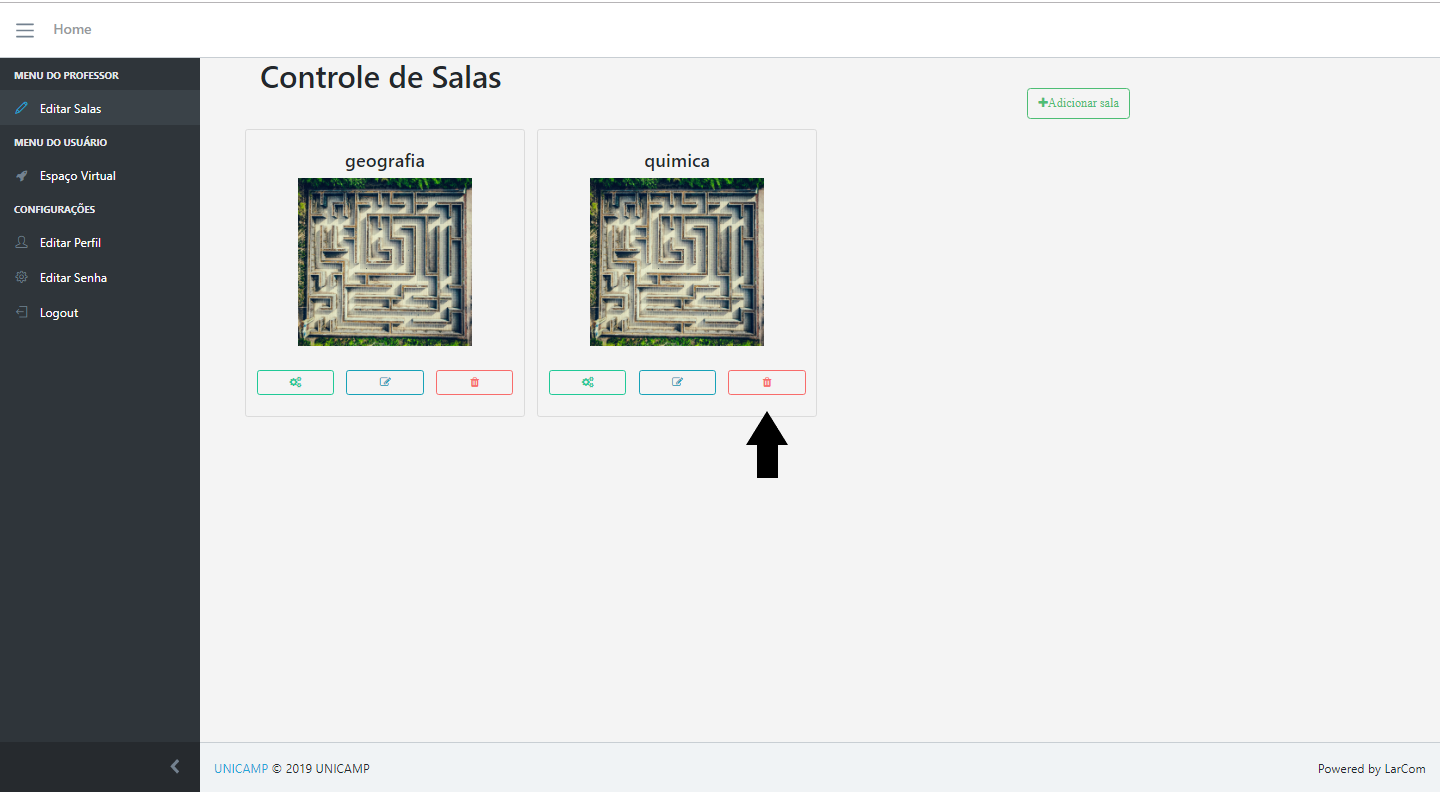
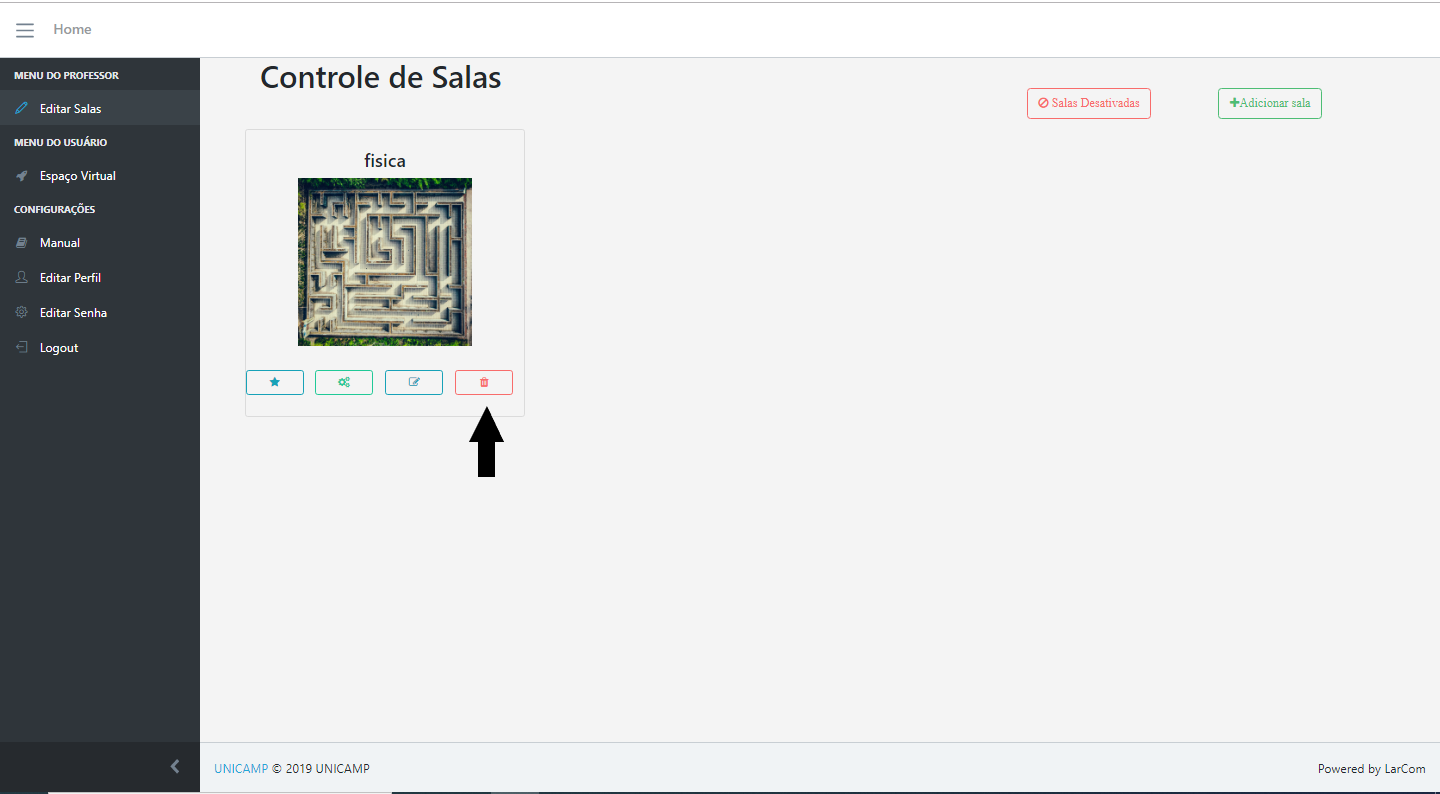
#core perguntas no gráfico

diff --git a/resources/views/grafico.blade.php b/resources/views/grafico.blade.php
@@ -12,72 +12,97 @@
 </div>
 -->
 <div class="container-fluid">
-    <form>
-        <label for="type">Selecione o tipo do gráfico</label>
-    <select id="type">
-        <option value="line">Linhas</option>    
-        <option value="bar">Barras</option>    
-        <option value="radar">Radar</option>    
-        <option value="pie">Pizza</option>    
-        <option value="doughnut">Rosca</option>    
-        <option value="polarArea">radar+pizza</option>    
-        <option value="bubble">Bolhas</option>    
-        <option value="scatter">Disperção</option>  
-        <option value="mixed">Mixed</option>    
-    </select>
-    
-    </form>
     <div class="animated fadeIn">
-      <div class="card-columns cols-2">
-        <div class="card">
-          <div class="card-header">
-            Gráfico Dinâmico
-            <div class="card-actions">
-              <a href="http://www.chartjs.org">
-                <small class="text-muted">docs</small>
-              </a>
+        <div class="card-columns cols-2">
+            <div class="card">
+                <div class="card-header">
+                    Gráfico Dinâmico
+                    <div class="card-actions">
+                        <a href="http://www.chartjs.org">
+                            <small class="text-muted">docs</small>
+                        </a>
+                    </div>
+                </div>
+                <div class="card-body">
+                    <div class="chart-wrapper">
+                        <canvas id="grafico"></canvas>
+                    </div>
+                </div>
             </div>
-          </div>
-          <div class="card-body">
-            <div class="chart-wrapper">
-              <canvas id="canvas-1"></canvas>
-            </div>
-          </div>
         </div>
-      </div>
     </div>
-  </div>
+</div>
 
 
 
 @endsection
 
 @section('myscript')
-	<script>
-        var ctx1 = document.getElementById('canvas-1').getContext('2d');
-        var canvas1 = new Chart(ctx1, {
-          type: 'line',
-          data: {
-            labels: ['January', 'February', 'March', 'April', 'May', 'June', 'July'], //x
+<script>
+    var teste = <?php echo $salas; ?>;
+    console.log(teste);
+    console.log(teste[0]);
+    console.log(teste[0].name);
+    
+    var perguntas = <?php echo $perguntas; ?>;
+    var perguntasNome=[];
+    var perguntasId=[];
+
+    perguntas.forEach(function(pergunta){
+        console.log(pergunta);
+    });
+    
+    for (var i = 0; i < perguntas.length; i++) {
+        perguntasNome[i] = perguntas[i].pergunta;
+        console.log(perguntasNome[i]);
+    }
+    
+    var random = function random() {
+        return Math.round(Math.random() * 100);
+    };
+
+
+    var ctxg = document.getElementById('grafico').getContext('2d');
+    var barChart = new Chart(ctxg, {
+        type: 'horizontalBar',
+        data: {
+            labels: perguntasNome,
             datasets: [{
-              label: 'My First dataset',
-              backgroundColor: 'rgba(220, 220, 220, 0.2)',
-              borderColor: 'rgba(220, 220, 220, 1)',
-              pointBackgroundColor: 'rgba(220, 220, 220, 1)',
-              pointBorderColor: '#fff',
-              data: [random(), random(), random(), random(), random(), random(), random()] //y
+                label: 'Erros',
+                backgroundColor: 'rgba(255, 0, 0, 0.5)',
+                borderColor: 'rgba(255, 0, 0, 0.8)',
+                highlightFill: 'rgba(255, 0, 0, 0.75)',
+                highlightStroke: 'rgb(255, 0, 0)',
+                data: [random(), random(), random(), random(), random(), random(), random()]
             }, {
-              label: 'My Second dataset',
-              backgroundColor: 'rgba(151, 187, 205, 0.2)',
-              borderColor: 'rgba(151, 187, 205, 1)',
-              pointBackgroundColor: 'rgba(151, 187, 205, 1)',
-              pointBorderColor: '#fff',
-              data: [random(), random(), random(), random(), random(), random(), random()]
+                label: 'Acertos',
+                backgroundColor: 'rgba(0, 255, 9, 0.5)',
+                borderColor: 'rgba(0, 255, 9, 0.8)',
+                highlightFill: 'rgba(0, 255, 9, 0.75)',
+                highlightStroke: 'rgba(0, 255, 9, 1)',
+                data: [random(), random(), random(), random(), random(), random(), random()]
             }]
-          },
-          options: {
-            responsive: true
-          }
-        });
-    </script>
+        },
+        options: {
+            title: {
+                display: true,
+                text: 'Chart.js Bar Chart - Stacked'
+            },
+            tooltips: {
+                mode: 'index',
+                intersect: false
+            },
+            responsive: true,
+            scales: {
+                xAxes: [{
+                    stacked: true,
+                }],
+                yAxes: [{
+                    stacked: true
+                }]
+            }
+        }
+    });
+
+</script>
 @endsection

diff --git a/resources/views/manual.blade.php b/resources/views/manual.blade.php
@@ -74,6 +74,12 @@
                                     <li>
                                         Sala Pública: este campo deverá marcado se a sala tiver que ser aberta a todos os jogadores, caso contrário apenas usuários escolhidos pelo criador do labirinto poderão acessar o jogo.
                                     </li>
+                                    <li>
+                                        Ativa: é uma forma de controlar o acesso à sala sem precisar deleta-la. Se o campo estiver marcado, significa que os usuários podem jogar, e se não estiver marcada, não aparecerá para os usuários no espaço virtual. Se a sala estiver desativada, é só clicar em '<i class="fa fa-ban"></i>Salas Desativadas' para vê-la.
+                                        <img src="/img/desativada.png" class="img-fluid" style="width: 700px; padding-bottom: 50px; padding-top:50px; ">
+                                        E, para voltar às salas ativadas, basta clicar em '<i class="fa fa-fa-thumbs-up"></i>Salas Ativadas'
+                                        <img src="/img/ativar.png" class="img-fluid" style="width: 800px; padding-bottom: 50px; padding-top:50px; ">
+                                    </li>
                                 </ul>
 
                                 <img src="/img/nova_sala.png" class="img-fluid" style="width: 800px; padding-bottom: 50px; padding-top:50px; ">

diff --git a/resources/views/add_sala.blade.php b/resources/views/add_sala.blade.php
@@ -57,7 +57,9 @@
                         <div class="form-group">
                             <input type="checkbox" name="public">Sala Pública
                         </div>
-                        <span><input type="checkbox" name="enable" checked>Ativo</span>
+                        <div class="form-group">
+                            <input type="checkbox" name="enable" checked>Ativo
+                        </div>
 
                         <div>
                             <button type="submit" class="btn btn-outline-success btn-lg btn-block">CRIAR SALA</button>
